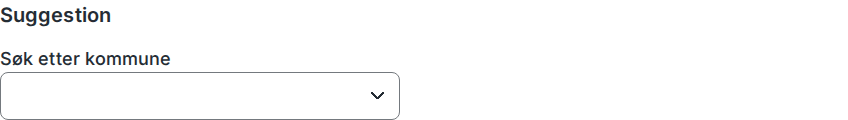
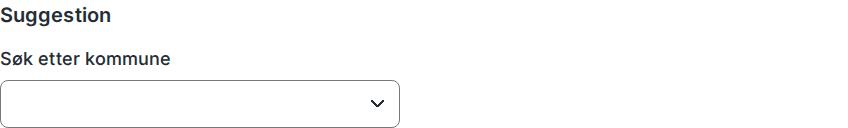
update snapshots

diff --git a/packages/angular/README.md b/packages/angular/README.md
@@ -53,3 +53,8 @@ A complete example setup is available in the `angular-demo` located under the `a
 ## Development
 
 `pnpm nx run @ks-digital/designsystem-angular:storybook`
+
+## Update snapshots
+
+From this folder:
+`docker compose run --rm update-snapshots`